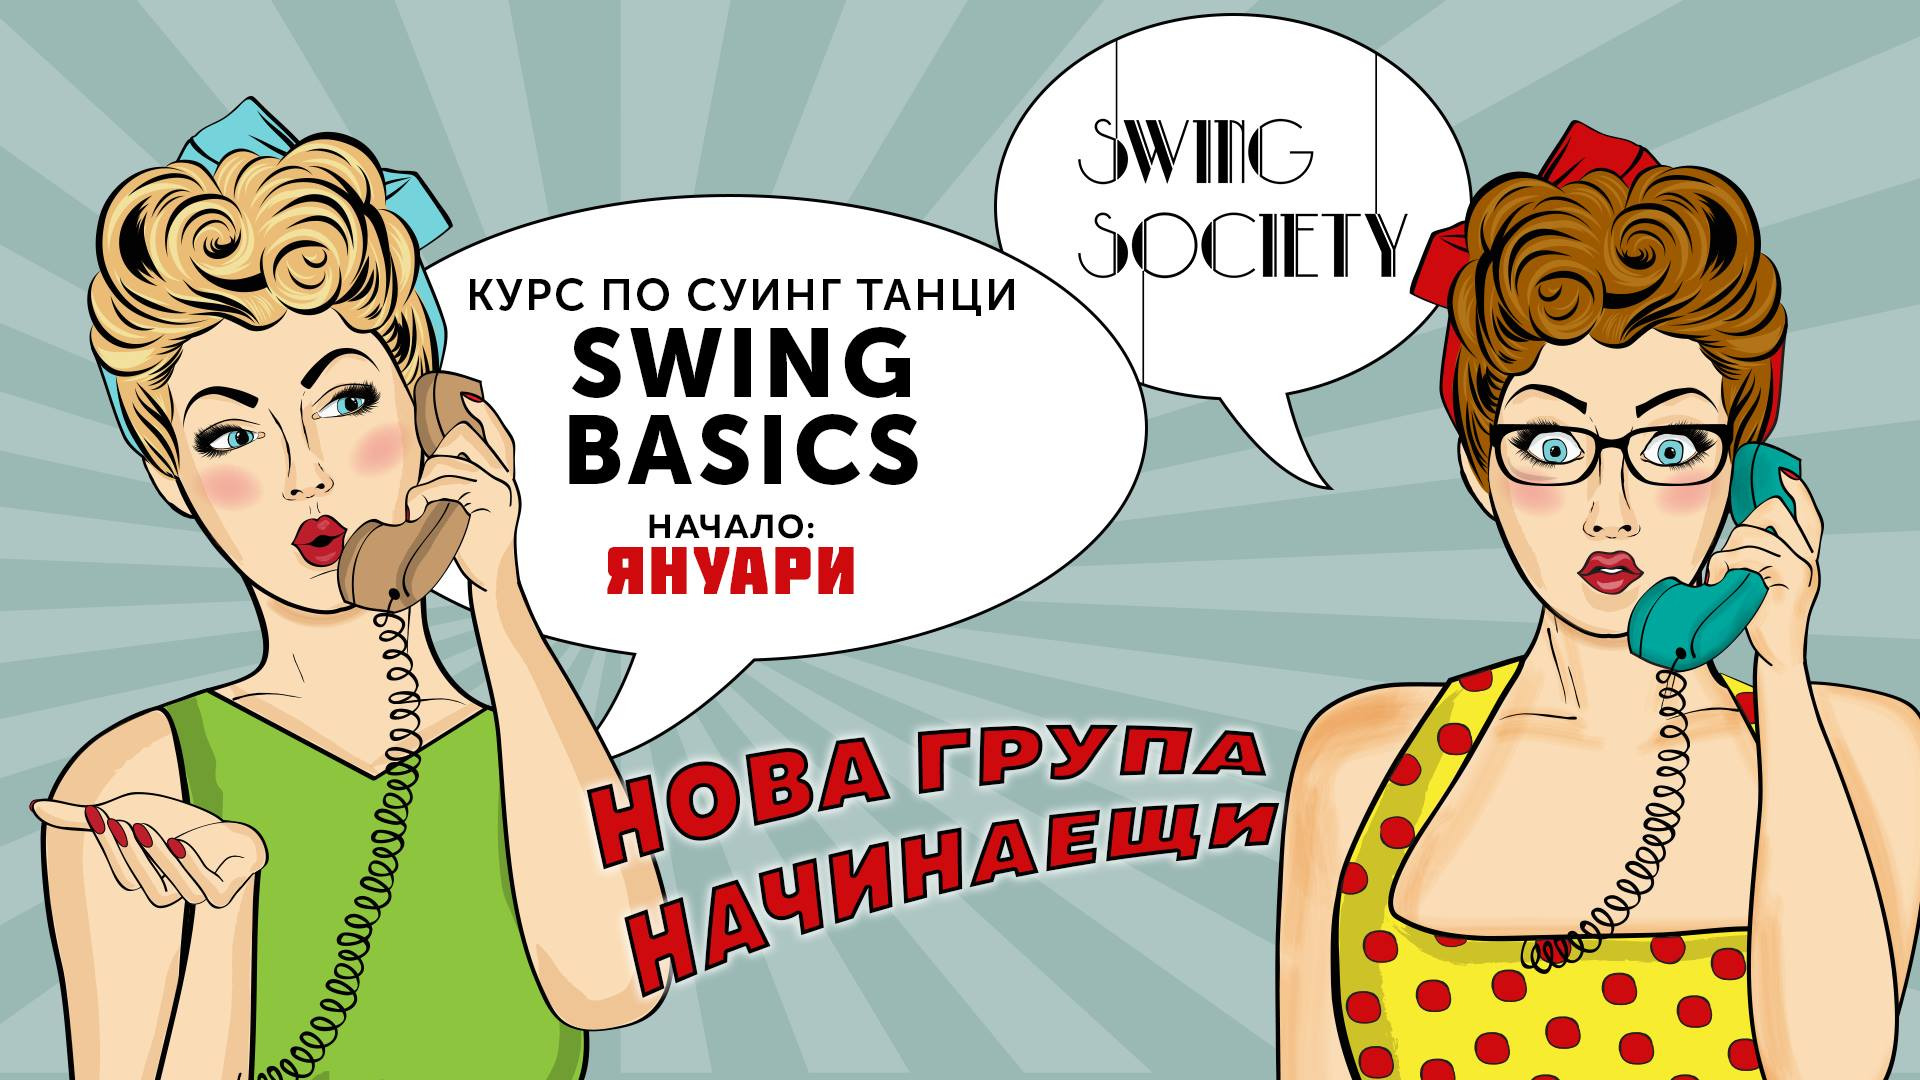
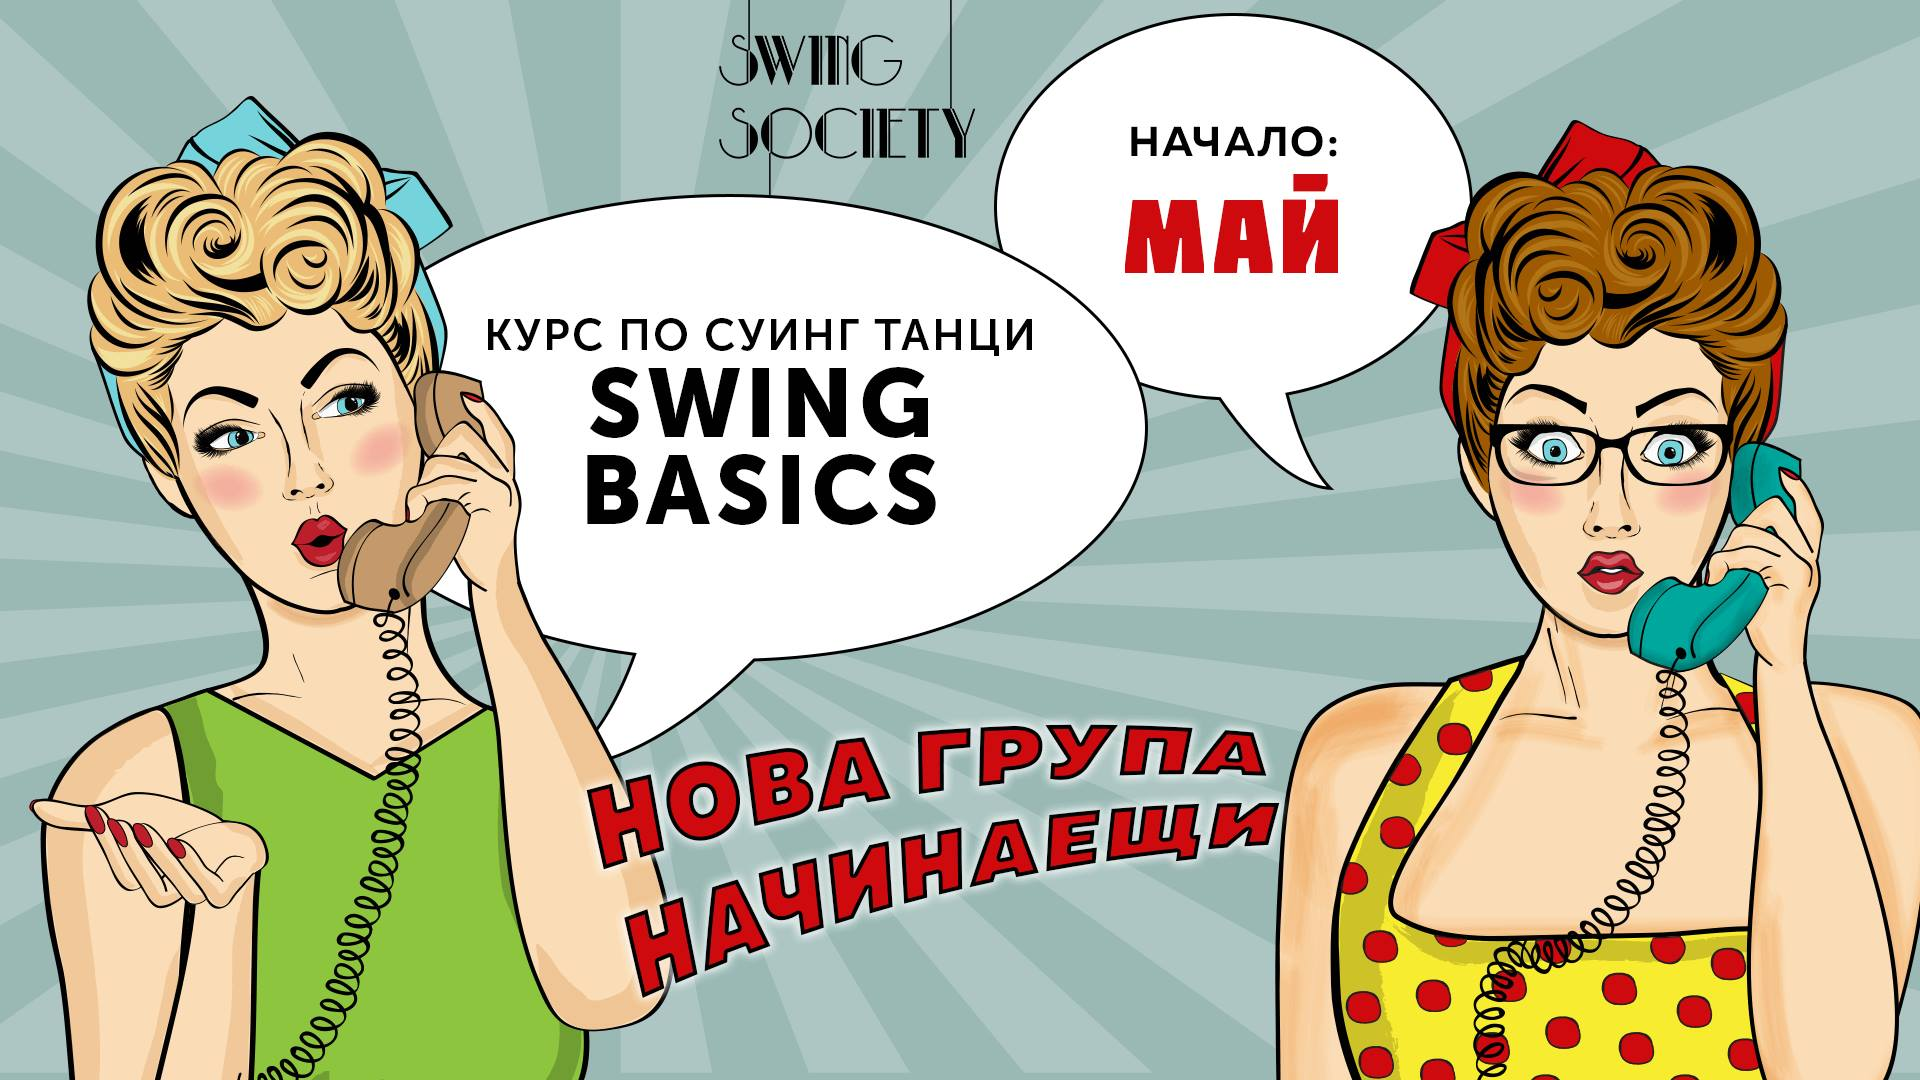
Updatd the photos and texts for the May courses.

diff --git a/index.html b/index.html
@@ -60,7 +60,7 @@
             енергия, наслада и импровизация.</p>
           </div>
           <div class="col-lg-5 mr-auto">
-              <a href="https://www.facebook.com/events/1587545081310872/" target="_blank">
+              <a href="https://www.facebook.com/events/183294515726933/" target="_blank">
                   <img class="img-fluid" src="img/swing_basics.jpg" alt="">
               </a>
           </div>
@@ -78,13 +78,13 @@
           <div class="col-lg-5 mr-auto order-lg-2">
             <hr class="section-heading-spacer">
             <div class="clearfix"></div>
-            <h2 class="section-heading">Tap Dance</h2>
-            <p class="lead">Степът е соло танц, базиран на ритъм, тайминг и баланс,
-                развил се в Съединените щати в края на 19ти и първата половина на 20ти век.
-                Танцува се на различни форми на Jazz музика.</p>
+            <h2 class="section-heading">Solo Jazz + Tap</h2>
+            <p class="lead">Solo Jazz-ът и степът (Tap) са супер ритмични танци,
+            които се появяват в началото на миналия век. В този курс ще научите и двата
+        като за основа ще използваме хореографията Shim Sham - версията на Al Minns & Leon James.</p>
           </div>
           <div class="col-lg-5 ml-auto order-lg-1">
-              <a href="https://www.facebook.com/events/145196809472423/" target="_blank">
+              <a href="https://www.facebook.com/events/560494110998805/" target="_blank">
                   <img class="img-fluid" src="img/tap_dance.jpg" alt="">
               </a>
           </div>
